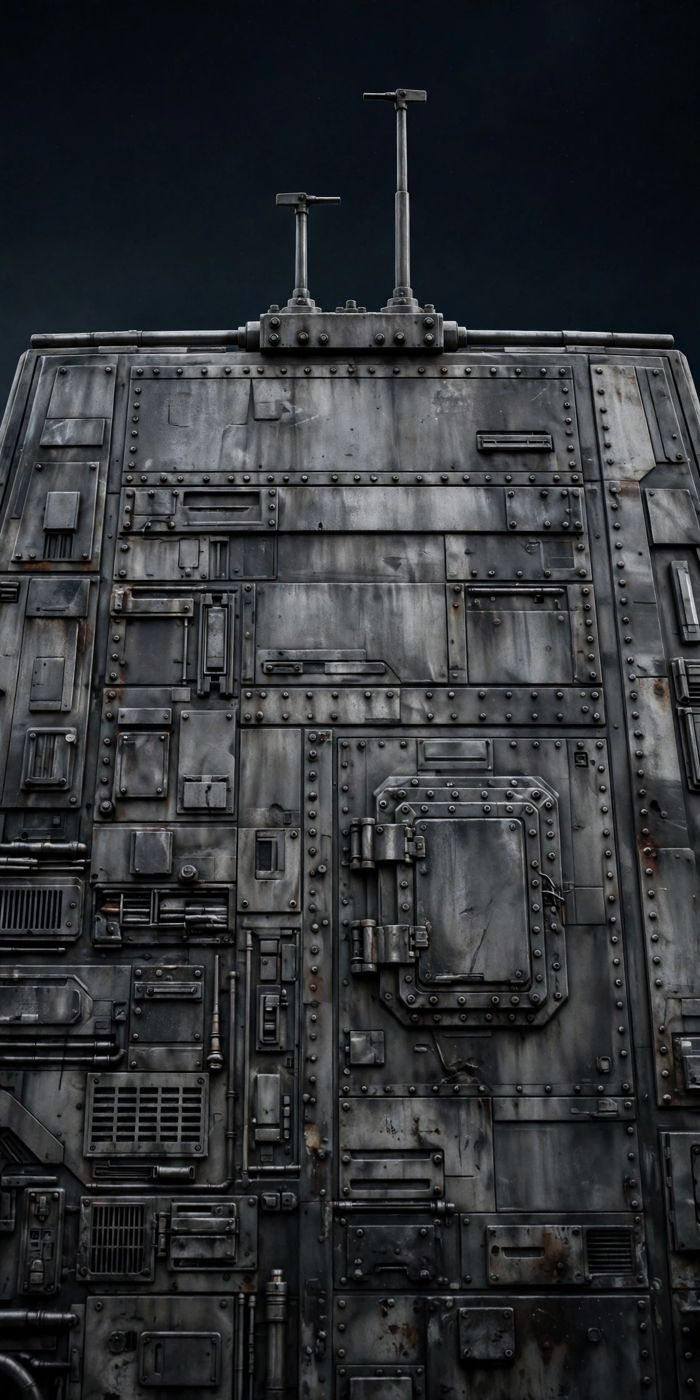
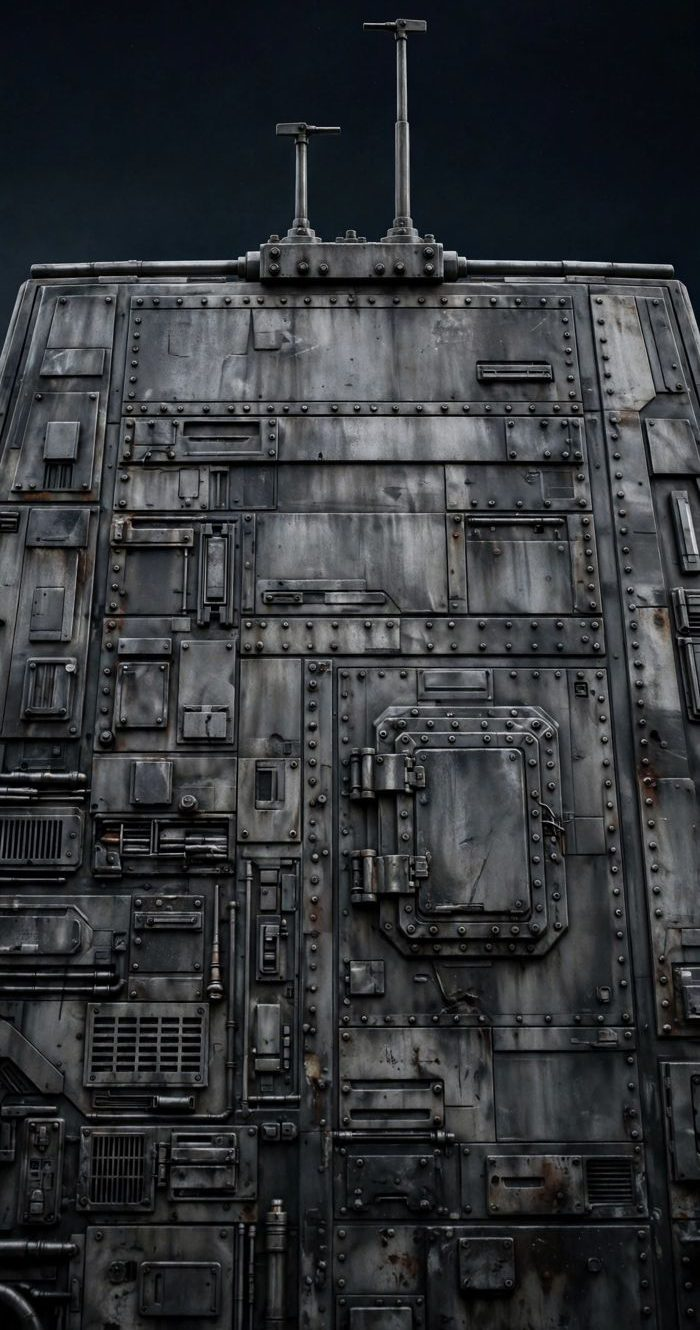
NW Sabers round 3g fix: mast cards actually show their masts - artworks cropped to the mast, photo offset via percentage margin on the bare img (16% single / 34% double), top-anchored plate

diff --git a/nwsabers/index.html b/nwsabers/index.html
@@ -65,7 +65,7 @@
       <div class="rc-price"><span class="was">$320.00</span><span class="now">$272.00</span></div></a></div><div class="car-page"><a class="returning-card" href="product/white-gold-lightsaber-with-tsuba-guard-and.html" style="--plate:url('img/plate-c.jpg')">
       <img src="https://static.wixstatic.com/media/e11055_4eb1755a5c304496a2f3802560ac1d31~mv2.jpg/v1/fit/w_600,h_600,q_85/file.jpg" alt="White &amp; Gold Lightsaber with Tsuba Guard and Tassel — Xenopixel &amp; Baselit">
       <div class="rc-name">White &amp; Gold Lightsaber with Tsuba Guard and Tassel — Xenopixel &amp; Baselit</div>
-      <div class="rc-price"><span class="was">$250.00</span><span class="now">$212.50</span></div></a><a class="returning-card has-mast" href="product/silver-exposed-core-lightsaber.html" style="--plate:url('img/plate-mast2.jpg')">
+      <div class="rc-price"><span class="was">$250.00</span><span class="now">$212.50</span></div></a><a class="returning-card has-mast2" href="product/silver-exposed-core-lightsaber.html" style="--plate:url('img/plate-mast2.jpg')">
       <img src="https://static.wixstatic.com/media/e11055_64a302ef5a1c4908b46425c71396a7e4~mv2.jpg/v1/fit/w_600,h_600,q_85/file.jpg" alt="Silver Exposed-Core Lightsaber — Xenopixel &amp; Baselit">
       <div class="rc-name">Silver Exposed-Core Lightsaber — Xenopixel &amp; Baselit</div>
       <div class="rc-price"><span class="was">$200.00</span><span class="now">$170.00</span></div></a><a class="returning-card" href="product/owk-v4.html" style="--plate:url('img/plate-a.jpg')">
@@ -83,7 +83,7 @@
       <div class="rc-price"><span class="was">$200.00</span><span class="now">$170.00</span></div></a></div><div class="car-page"><a class="returning-card" href="product/blind-knight.html" style="--plate:url('img/plate-a.jpg')">
       <img src="https://static.wixstatic.com/media/e11055_43f3b1c9a14f4a51b66d14ac77188ac4~mv2.jpg/v1/fit/w_600,h_600,q_85/file.jpg" alt="Blind Knight">
       <div class="rc-name">Blind Knight</div>
-      <div class="rc-price"><span class="was">$300.00</span><span class="now">$255.00</span></div></a><a class="returning-card has-mast" href="product/forked-emitter-lightsaber-with-mesh-grip.html" style="--plate:url('img/plate-mast2.jpg')">
+      <div class="rc-price"><span class="was">$300.00</span><span class="now">$255.00</span></div></a><a class="returning-card has-mast2" href="product/forked-emitter-lightsaber-with-mesh-grip.html" style="--plate:url('img/plate-mast2.jpg')">
       <img src="https://static.wixstatic.com/media/e11055_e95fc11d62044289b738bda2de67c874~mv2.jpg/v1/fit/w_600,h_600,q_85/file.jpg" alt="Forked-Emitter Lightsaber with Mesh Grip — Xenopixel &amp; Baselit">
       <div class="rc-name">Forked-Emitter Lightsaber with Mesh Grip — Xenopixel &amp; Baselit</div>
       <div class="rc-price"><span class="was">$220.00</span><span class="now">$153.00</span></div></a><a class="returning-card" href="product/as-v9.html" style="--plate:url('img/plate-b.jpg')">

diff --git a/nwsabers/style.css b/nwsabers/style.css
@@ -491,6 +491,7 @@ body.home .about h2{color:#dfe4e8;text-shadow:0 2px 0 #4a5157,0 4px 16px rgba(0,
    position, so the texture cannot zoom (see the ROUND 3 hover block). */
 .space-zone .returning-card{background-image:linear-gradient(rgba(10,14,12,.16),rgba(10,14,12,.16)),var(--plate,url('img/hull.jpg'));background-size:auto,cover;background-position:center,center}
 .space-zone .returning-card:hover{background-image:linear-gradient(rgba(10,14,12,.16),rgba(10,14,12,.16)),var(--plate,url('img/hull.jpg'));background-size:auto,cover;background-position:center,center}
-.space-zone .returning-card.has-mast{background-position:center,center 12%}
-.space-zone .returning-card.has-mast:hover{background-position:center,center 12%}
-.space-zone .returning-card.has-mast .rc-photo{margin-top:52px}
+.space-zone .returning-card.has-mast,.space-zone .returning-card.has-mast2{background-position:center,center 0%}
+.space-zone .returning-card.has-mast:hover,.space-zone .returning-card.has-mast2:hover{background-position:center,center 0%}
+.space-zone .returning-card.has-mast>img{margin-top:16%}
+.space-zone .returning-card.has-mast2>img{margin-top:34%}
